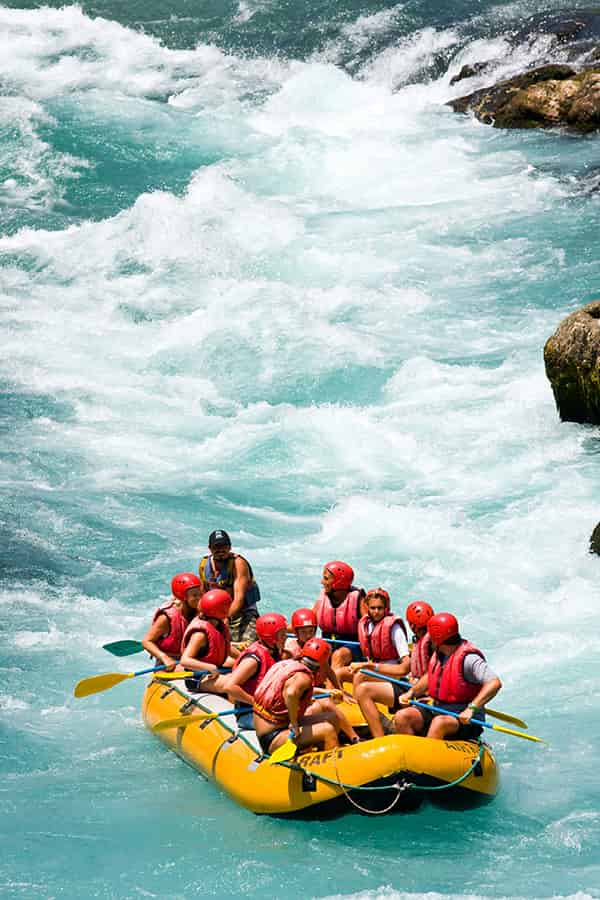
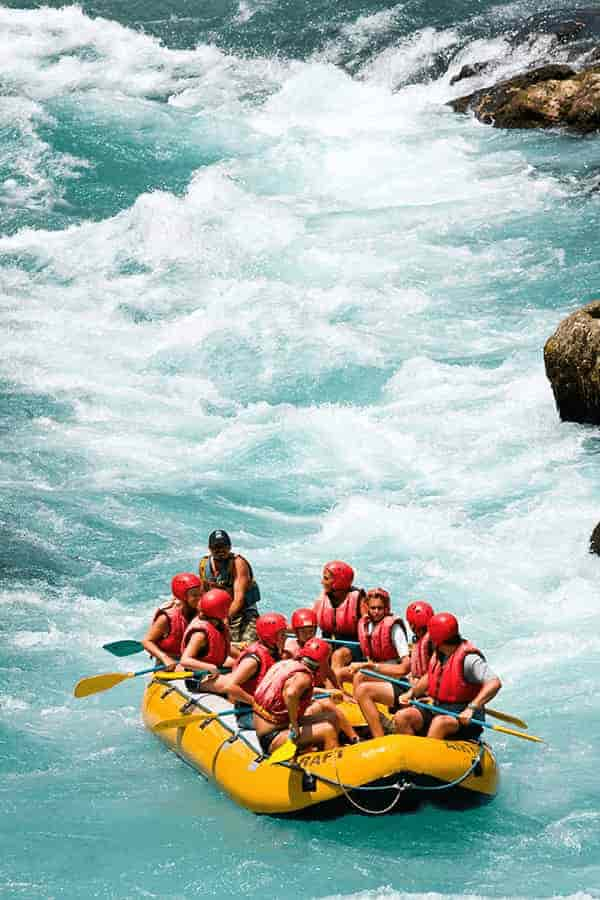
final commit

diff --git a/wwr/index.html b/wwr/index.html
@@ -34,32 +34,31 @@
                     <img src="images/rafting-banner-3.jpg" alt="rafting with 3 boats">
                     <div class="text">
                         <h2>Feel the adventure</h2>
-                        <p>Lorem ipsum dolor sit amet consectetur, adipisicing elit. Voluptatum,
-                            quos.</p>
+                        <p>Let the wonders of this world amaze you, be brave and have faith</p>
                     </div>
                 </li>
                 <li>
                     <img src="images/banner-img-2-def.jpg" alt="">
                     <div class="text">
                         <h2>Challenge yourself</h2>
-                        <p>Lorem ipsum dolor sit amet consectetur, adipisicing elit. Voluptatum,
-                            quos.</p>
+                        <p>Put your body, mind and spirit to the test of the river. Who would win?
+                        </p>
                     </div>
                 </li>
                 <li>
                     <img src="images/banner-img-4.jpg" alt="">
                     <div class="text">
                         <h2>Work as a team</h2>
-                        <p>Lorem ipsum dolor sit amet consectetur, adipisicing elit. Voluptatum,
-                            quos.</p>
+                        <p>Rely on others to help you overcome the challenges that come your way,
+                            stay united!</p>
                     </div>
                 </li>
                 <li>
                     <img src="images/banner-img-6.jpg" alt="">
                     <div class="text">
                         <h2>Explore</h2>
-                        <p>Lorem ipsum dolor sit amet consectetur, adipisicing elit. Voluptatum,
-                            quos.</p>
+                        <p>Search for what you need, find peace and thank the Lord for this
+                            experience</p>
                     </div>
                 </li>
             </ul>
@@ -108,8 +107,8 @@
             <a href="trips.html">
                 <img src="images/hero-img/rafting-history.jpg" alt="LinkedIn Icon">
             </a>
-            <p>Lorem ipsum dolor sit amet.</p>
-            <p>Lorem ipsum dolor sit amet consectetur.</p>
+            <p>Explore the rivers</p>
+            <p>Conquer nature as a team</p>
 
         </div>
 
